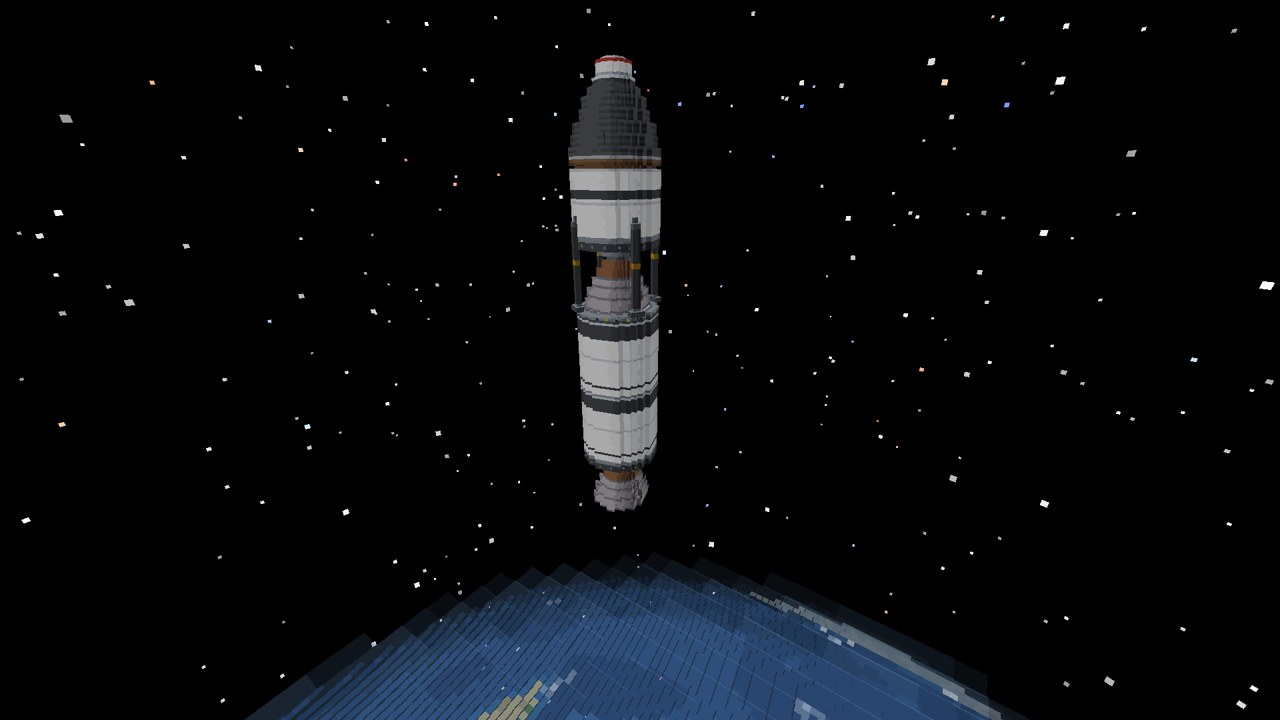
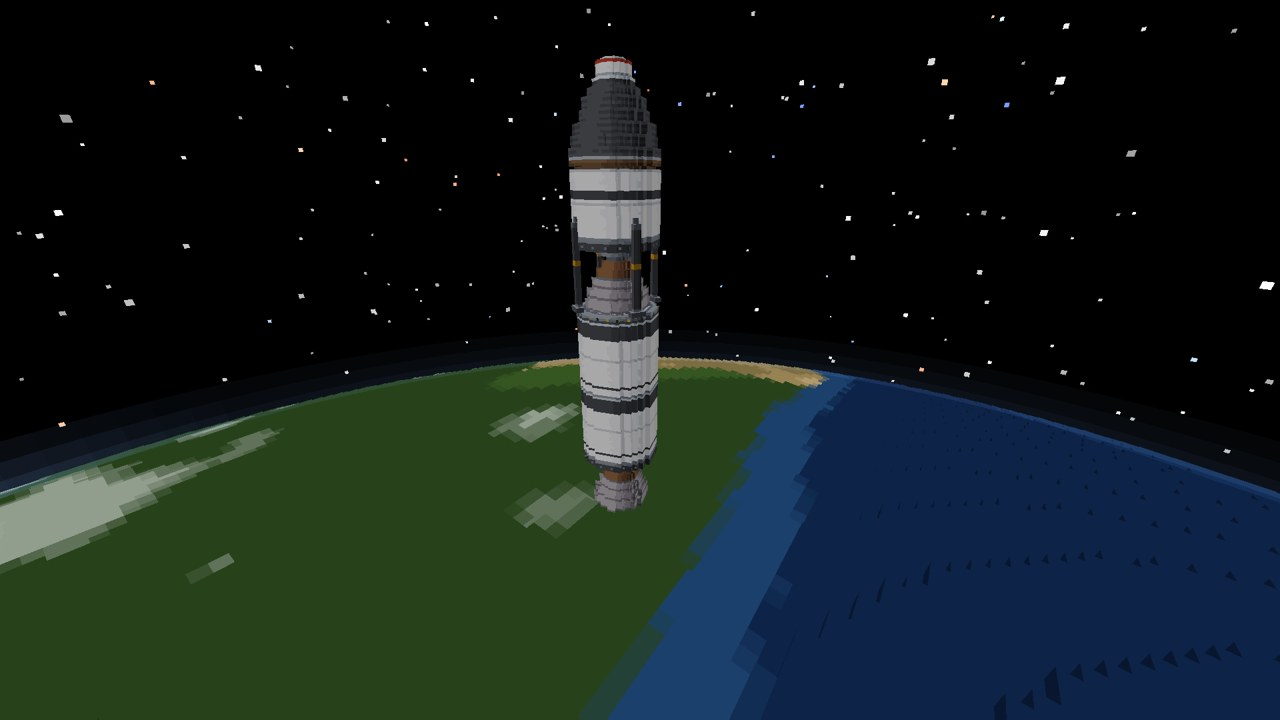
Rocketry: station texts match the modules (four arrays, sleeping pods, supply lockers), a thin air band on the planet's limb below an orbit
- EN/TR tooltips and the content list: the solar wings carry four arrays on a
  rotary joint and lattice boom; the quarters have three sleeping pods and two
  supply lockers.
- Worlds with air below an orbit get the blocky renderer's thin stepped limb band
  (never over the planet's face): the horizon from low orbit.

diff --git a/src/main/java/com/pizzaparker07/spacebreaker/content/rocketry/RocketryLang.java b/src/main/java/com/pizzaparker07/spacebreaker/content/rocketry/RocketryLang.java
@@ -98,12 +98,12 @@ final class RocketryLang {
         l.item(RocketryModule.HABITATION_MODULE, "Habitation Module", "Yaşam Modülü");
         l.item(RocketryModule.AIRLOCK_MODULE, "Airlock Module", "Hava Kilidi Modülü");
         l.item(RocketryModule.SOLAR_WINGS, "Solar Wings", "Güneş Kanatları");
-        l.add("tooltip.spacebreaker.station_module.habitation", "Living quarters: three bunks, a locker, a window band and a mouth at the far end",
-                "Yaşam alanı: üç ranza, bir dolap, pencere bandı ve uçta bir ağız");
+        l.add("tooltip.spacebreaker.station_module.habitation", "Living quarters: three sleeping pods, two supply lockers, a window band and a mouth at the far end",
+                "Yaşam alanı: üç uyku kabini, iki malzeme dolabı, pencere bandı ve uçta bir ağız");
         l.add("tooltip.spacebreaker.station_module.airlock", "A small chamber with a door into the station and a door to space: step out without losing the station's air",
                 "İstasyona ve uzaya açılan birer kapılı küçük oda: istasyonun havasını kaybetmeden dışarı çık");
-        l.add("tooltip.spacebreaker.station_module.solar_wings", "Outside the hull: three solar arrays on a cable truss and a battery bank in the mouth, powering the station (FE)",
-                "Gövdenin dışında: kablo kafes üstünde üç güneş paneli dizisi ve ağızda batarya bankası; istasyona enerji (FE) verir");
+        l.add("tooltip.spacebreaker.station_module.solar_wings", "Outside the hull: a rotary joint and a lattice boom carrying four solar arrays, a battery bank in the mouth powering the station (FE)",
+                "Gövdenin dışında: döner eklem ve kafes kol üstünde dört güneş paneli dizisi, ağızda istasyona enerji (FE) veren batarya bankası");
         l.item(RocketryModule.SHIPYARD_MODULE, "Shipyard Module", "Tersane Modülü");
         l.add("tooltip.spacebreaker.station_module.shipyard", "An open 15 x 15 x 31 frame outside the hull: a berth for one spacecraft (up to 13 x 13 x 29), its docking port in the mouth, a fuel depot and floodlights",
                 "Gövdenin dışında açık 15 x 15 x 31 çerçeve: bir uzay aracı için yuva (en fazla 13 x 13 x 29), ağızda kenetlenme portu, yakıt deposu ve projektörler");

diff --git a/src/main/java/com/pizzaparker07/spacebreaker/client/rocketry/BodyLook.java b/src/main/java/com/pizzaparker07/spacebreaker/client/rocketry/BodyLook.java
@@ -68,7 +68,10 @@ final class BodyLook {
         var pose = new BlockyBodyRenderer.Pose(center, radius, new Vector3f(0, 0, 1), new Vector3f(0, 1, 0), spin * (float) (Math.PI * 2));
         // close below an orbit: up to the finest level, or the steps show as big bands
         BlockyBodyRenderer.draw(modelView, st, BlockyBodyRenderer.APPROACH, map(body), pose, sun, 0.05F, 1F, alpha, null);
-        // no air shell: seen face-on it washes the whole planet out; the colours carry the atmosphere
+        if (air) {
+            // a thin stepped band of air along the planet's outline (never over its face): the horizon from low orbit
+            BlockyBodyRenderer.drawLimb(modelView, pose, sun, 0x7FB4FF, 0.85F * alpha, 0.025F);
+        }
         return true;
     }
 

diff --git a/docs/CONTENT.md b/docs/CONTENT.md
@@ -61,7 +61,7 @@ Her içerik paketi gerçek istemcide vitrin dünyasında fotoğraflanır; onayda
 | 🎨 | Çok Katmanlı Yalıtım ve yalıtımlı tanklar (küçük/orta/büyük) | MLI: 4 altın folyo yalıtım + 4 plastik + alüminyum levha → 2. Tank + MLI (küçük 1, orta 2, büyük 3) → yalıtımlı tank (araştırma: Kriyojenik); +60/90/120 kg kuru kütle, aynı kapasite. Yalıtımlı tankların payı kadar kademenin buharlaşması %75 azalır; harita "buharlaşma kaybı" satırı ve yakıt kontrolü bunu hesaba katar. Altın folyo battaniye, gümüş bant dokusu; vitrin 54_insulated_tanks; GameTest cryogenicBoilOff |
 | 🎨 | Kargo Modülü | insansız kargo roketi: kapsül yuvasına takılır (Uzay İstasyonları teknolojisi), 27 yuvalı ambar (rampada ya da yanaşmışken sağ tık). Konsoldan hedef seçilip fırlatılır: hedef bir yörüngeyse oradaki istasyonun portuna kendiliğinden yanaşır, yüzeyse en yakın iniş işaretine iner; ambarı port ya da işaretin 4 blok çevresindeki en yakın sandık ve shulker kutularına boşaltır (makinelere asla), sığmayan ambarda kalır; sahibine mesaj gider. Otomatik sefer: iki uç da Dünya yüzeyi değilse (ör. Ay üssü ↔ Ay yörüngesindeki istasyon) her uçta boşaltır, port/işaret yanındaki varillerden yeni yükü alır, 10 saniye bekler (depo yakıt basar) ve yakıt yetiyorsa öbür uca uçar; yük yoksa ya da yakıt yetmiyorsa bekler. Eğilip boş elle sağ tık seferi açar/kapatır |
 | 🎨 | Ay Mekiği, İniş İşareti | yeniden kullanılabilir tek kademe (vakum motoru, orta tank, iniş bacakları, kapsül, manevra iticileri; yaratıcı sekmesinde hazır): Ay yörüngesindeki istasyona yanaşır, depodan yakıt alır, Ay yüzeyine iner ve tek tankla yörüngeye döner. Yüzeye konan iniş işareti kayıtlıdır: yörüngeden inen her roket o dünyadaki en yakın işaretin üstüne iner (üsse dönüş; atmosferli dünyada paraşüt inişi rüzgârla birkaç blok sapabilir). Yıldız haritasında üssü olan dünyanın yanında üs simgesi; panelde kuran oyuncu ve iniş işareti sayısı |
-| 🎨 | Modüler Uzay İstasyonu (aşama 1): İstasyon Çekirdek Modülü, Kenetlenme Modülü, İstasyon Kapağı, İstasyon Çekirdek Konsolu | Modüller hem roket yükü (kapsül yuvasına takılır; Uzay İstasyonları teknolojisi) hem el kitidir. Standart ağız: duvarda 3×3 açıklık, alt sırası yürüme yüksekliğinde; boş ağızlar 9 kapakla mühürlü (ortadaki işaretli). Çekirdek 7×7×7: konsol (teslim edilen modüllerin beklediği 9 yuvalı satır, sahibi), oksijen dağıtıcısı, tavanda ışıklar, çatıda yukarı bakan kenetlenme portu, dört yan ağız ve üstlerinde pencere. Kenetlenme modülü 5×5×7 tünel, ucunda kenetlenme portu. Elde modülle bir ağza bakınca yerleşeceği yer çerçeveyle görünür (yeşil: yer var, kırmızı: engel); kapağa kullanınca modül kurulur, iki duvar 3×3 geçide açılır ve hava tek odada birleşir. Çekirdek yörüngede boşlukta kullanılınca yeni istasyon kurar. Roketle: modül taşıyan roket yörüngede istasyonun portuna yanaşır ve modülü çekirdek konsoluna bırakır; 512 blok içinde port yoksa çekirdek modülü roketin önünde istasyonu kendisi kurar ve çatı portuna yanaşır. Aşama 2: Yaşam Modülü (7×5×9; üç ranza, varil dolap, iki pencere bandı, tavan ışıkları, uçta yeni ağız), Hava Kilidi Modülü (5×5×5; istasyona ve uzaya açılan birer hava kilidi kapısı, aradaki küçük oda; kapılar kapalıyken istasyon havası korunur), Güneş Kanatları (gövde dışında: ağız mühürlü kalır, ortadaki kapağın yerine çıkışı içeri bakan batarya bankası, dışarı 6 bloklık bakır kablo kafes üstünde 3 güneş paneli dizisi, FE). Kütle: çekirdek 4.000 kg, kenetlenme 1.800 kg, yaşam 3.200 kg, hava kilidi 1.400 kg, kanatlar 900 kg. Aşama 3: Tersane Modülü (gövde dışında açık 15×15×31 çerçeve: dört uzun kiriş, her 6 blokta çizgili halka ve ızgara çapraz çerçeve, üst kirişlerden aşağı bakan projektörler, ağzın ortasında yuvanın kenetlenme portu, kökte yakıt deposu; içinde 13×13×29 bir uzay aracı yuvası). Yuvalar boyut başına kayıtlı (`Berths`: find/dock/undock; port kırılırsa yuva silinir), her istasyonun kimliği ve uzay sahnesi için sabit yörüngesi var (`Stations.orbit`: 400 km dairesel). Kütle: tersane 6.000 kg |
+| 🎨 | Modüler Uzay İstasyonu (aşama 1): İstasyon Çekirdek Modülü, Kenetlenme Modülü, İstasyon Kapağı, İstasyon Çekirdek Konsolu | Modüller hem roket yükü (kapsül yuvasına takılır; Uzay İstasyonları teknolojisi) hem el kitidir. Standart ağız: duvarda 3×3 açıklık, alt sırası yürüme yüksekliğinde; boş ağızlar 9 kapakla mühürlü (ortadaki işaretli). Çekirdek 7×7×7: konsol (teslim edilen modüllerin beklediği 9 yuvalı satır, sahibi), oksijen dağıtıcısı, tavanda ışıklar, çatıda yukarı bakan kenetlenme portu, dört yan ağız ve üstlerinde pencere. Kenetlenme modülü 5×5×7 tünel, ucunda kenetlenme portu. Elde modülle bir ağza bakınca yerleşeceği yer çerçeveyle görünür (yeşil: yer var, kırmızı: engel); kapağa kullanınca modül kurulur, iki duvar 3×3 geçide açılır ve hava tek odada birleşir. Çekirdek yörüngede boşlukta kullanılınca yeni istasyon kurar. Roketle: modül taşıyan roket yörüngede istasyonun portuna yanaşır ve modülü çekirdek konsoluna bırakır; 512 blok içinde port yoksa çekirdek modülü roketin önünde istasyonu kendisi kurar ve çatı portuna yanaşır. Aşama 2: Yaşam Modülü (7×5×9; gri bölmeli üç uyku kabini (ranza + lamba), iki malzeme dolabı, güç ekranı, iki pencere bandı, tavanda kablo/boru kanalı ve ışıklar, uçta yeni ağız; tüm modüller sekizgen kesitli: pahlı köşeler, uç flanşları, gri kaburgalar, tutunma rayları, radyatör kanatçıkları, anten, yeşil/kırmızı seyir ışıkları), Hava Kilidi Modülü (5×5×5; istasyona ve uzaya açılan birer hava kilidi kapısı, aradaki küçük oda; kapılar kapalıyken istasyon havası korunur), Güneş Kanatları (gövde dışında: ağız mühürlü kalır, ortadaki kapağın yerine çıkışı içeri bakan batarya bankası, gri döner eklem, ızgara kafesli bakır kablo kolunun iki yanında toplam 4 güneş paneli dizisi, uçta anten, FE). Kütle: çekirdek 4.000 kg, kenetlenme 1.800 kg, yaşam 3.200 kg, hava kilidi 1.400 kg, kanatlar 900 kg. Aşama 3: Tersane Modülü (gövde dışında açık 15×15×31 çerçeve: dört uzun kiriş, her 6 blokta çizgili halka ve ızgara çapraz çerçeve, üst kirişlerden aşağı bakan projektörler, ağzın ortasında yuvanın kenetlenme portu, kökte yakıt deposu; içinde 13×13×29 bir uzay aracı yuvası). Yuvalar boyut başına kayıtlı (`Berths`: find/dock/undock; port kırılırsa yuva silinir), her istasyonun kimliği ve uzay sahnesi için sabit yörüngesi var (`Stations.orbit`: 400 km dairesel). Kütle: tersane 6.000 kg |
 | 🎨 | Mürettebat Kapsülü (3 kişilik) | Ağır Fırlatma teknolojisi; beyaz ısı karoları, üç pencere, tepede yanaşma halkası; üç oyuncu yan yana oturur (çok oyunculu yolculuk); her mürettebat kapsülü basınçlı kabindir: oturan mürettebat yörüngede ve yolculukta giysisiz nefes alır, kapsülden inince kabin havası kalmaz |
 | 🎨 | İletişim Rölesi Uydusu, Gözlem Uydusu, İniş Sondası | insansız roket: kapsül yuvasına takılır, konsoldan "Hedef..." ile yıldız haritasında görev hedefi seçilir ve fırlatılır; yörüngede kendiliğinden hedefe uçar. Uydu hedef yörüngede bırakılır (dünyada kalıcı kayıt, yörüngede dönen model); röle o gezegen sisteminde görev kontrolü sinyalini açar (yoksa "Sinyal yok", kilitlemez), gözlem uydusu dünyayı haritalar ve araştırma verisi gönderir; sonda iner, 2 numune + sonda verisi gönderir (çevrimdışıysa girişte) |
 | 🎨 | EVA Giysisi Mk1: Kask, Gövde, Pantolon, Bot | özel 3B modeller: yuvarlak kask, sarmal füme vizör, altın güneş vizörü (eğil + kullan), parlayan yan lambalar; göğüs kontrol kutusu, yaşam destek sırt çantası + oksijen şişeleri; mavi yatak halkaları; tabanlı botlar. Vakumda −190…+130 °C (Ay gecesi, Vesta dahil); yoğun havada ısı taşınımı aralığı daraltır. Yalnızca dört parça birlikte sızdırmaz |
